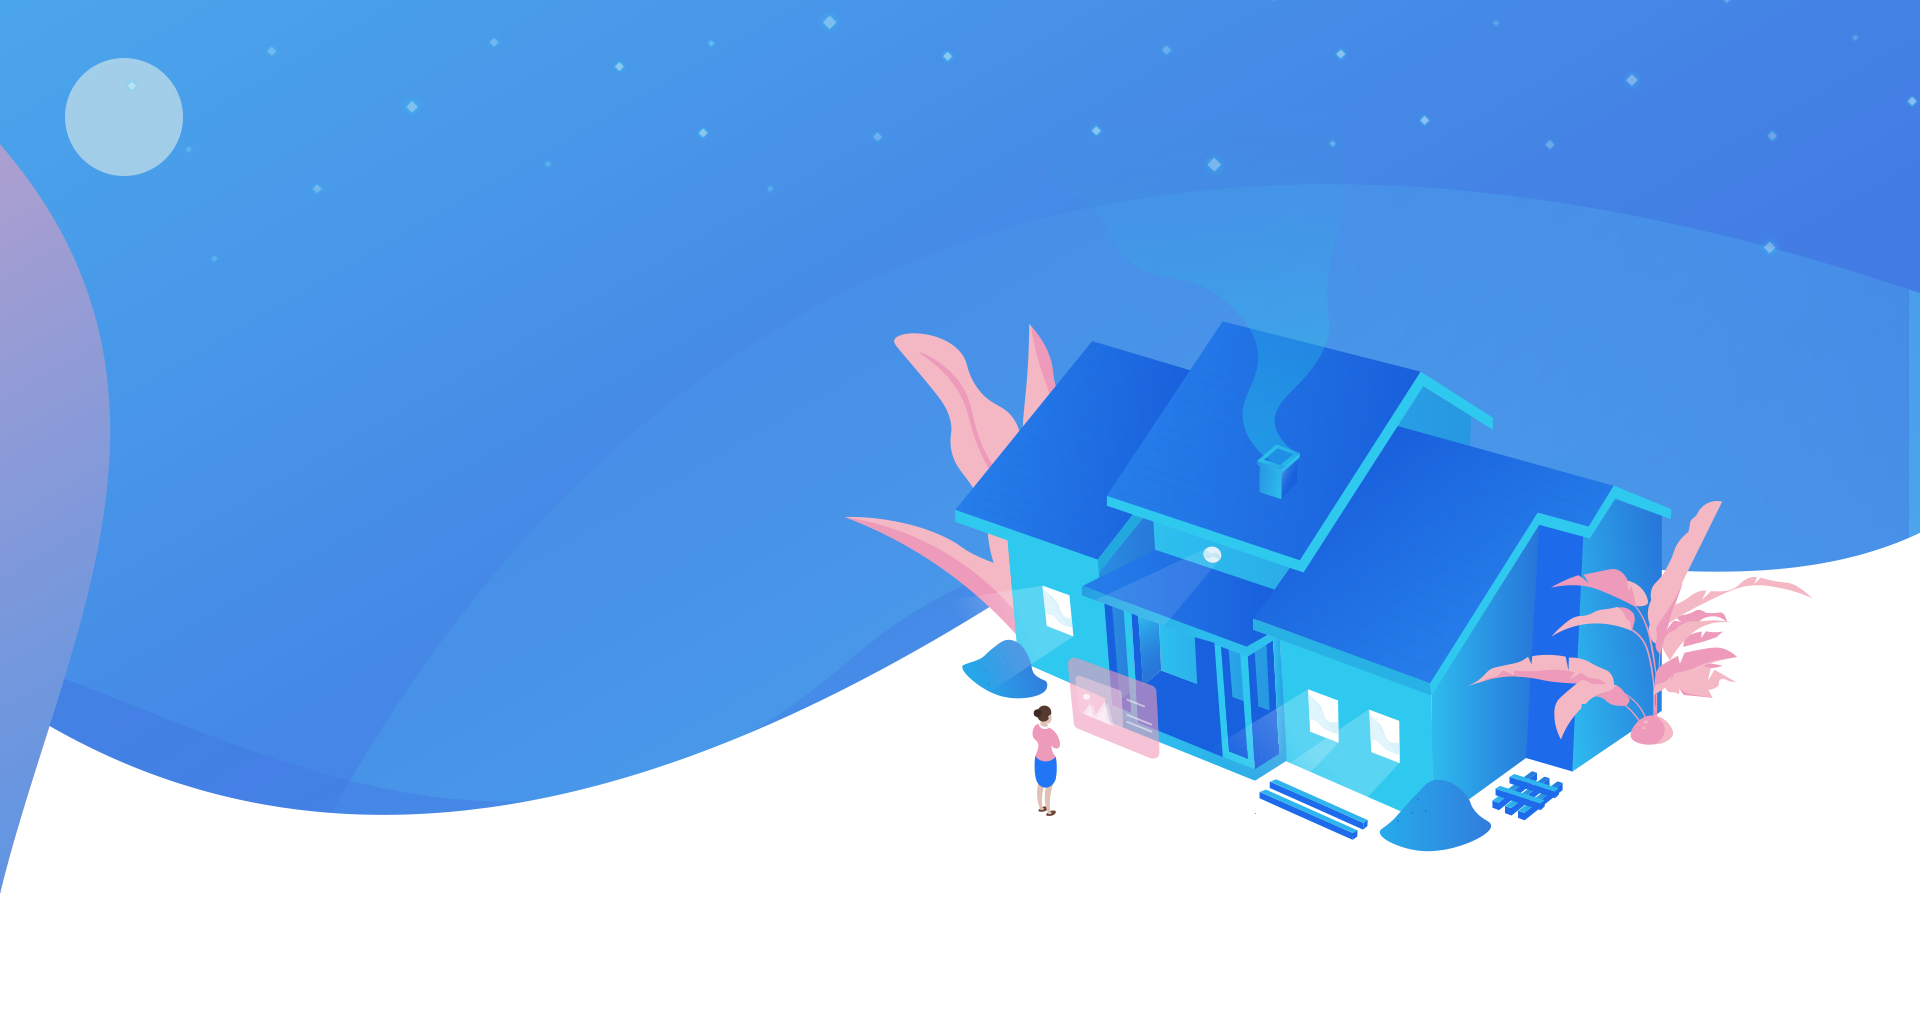
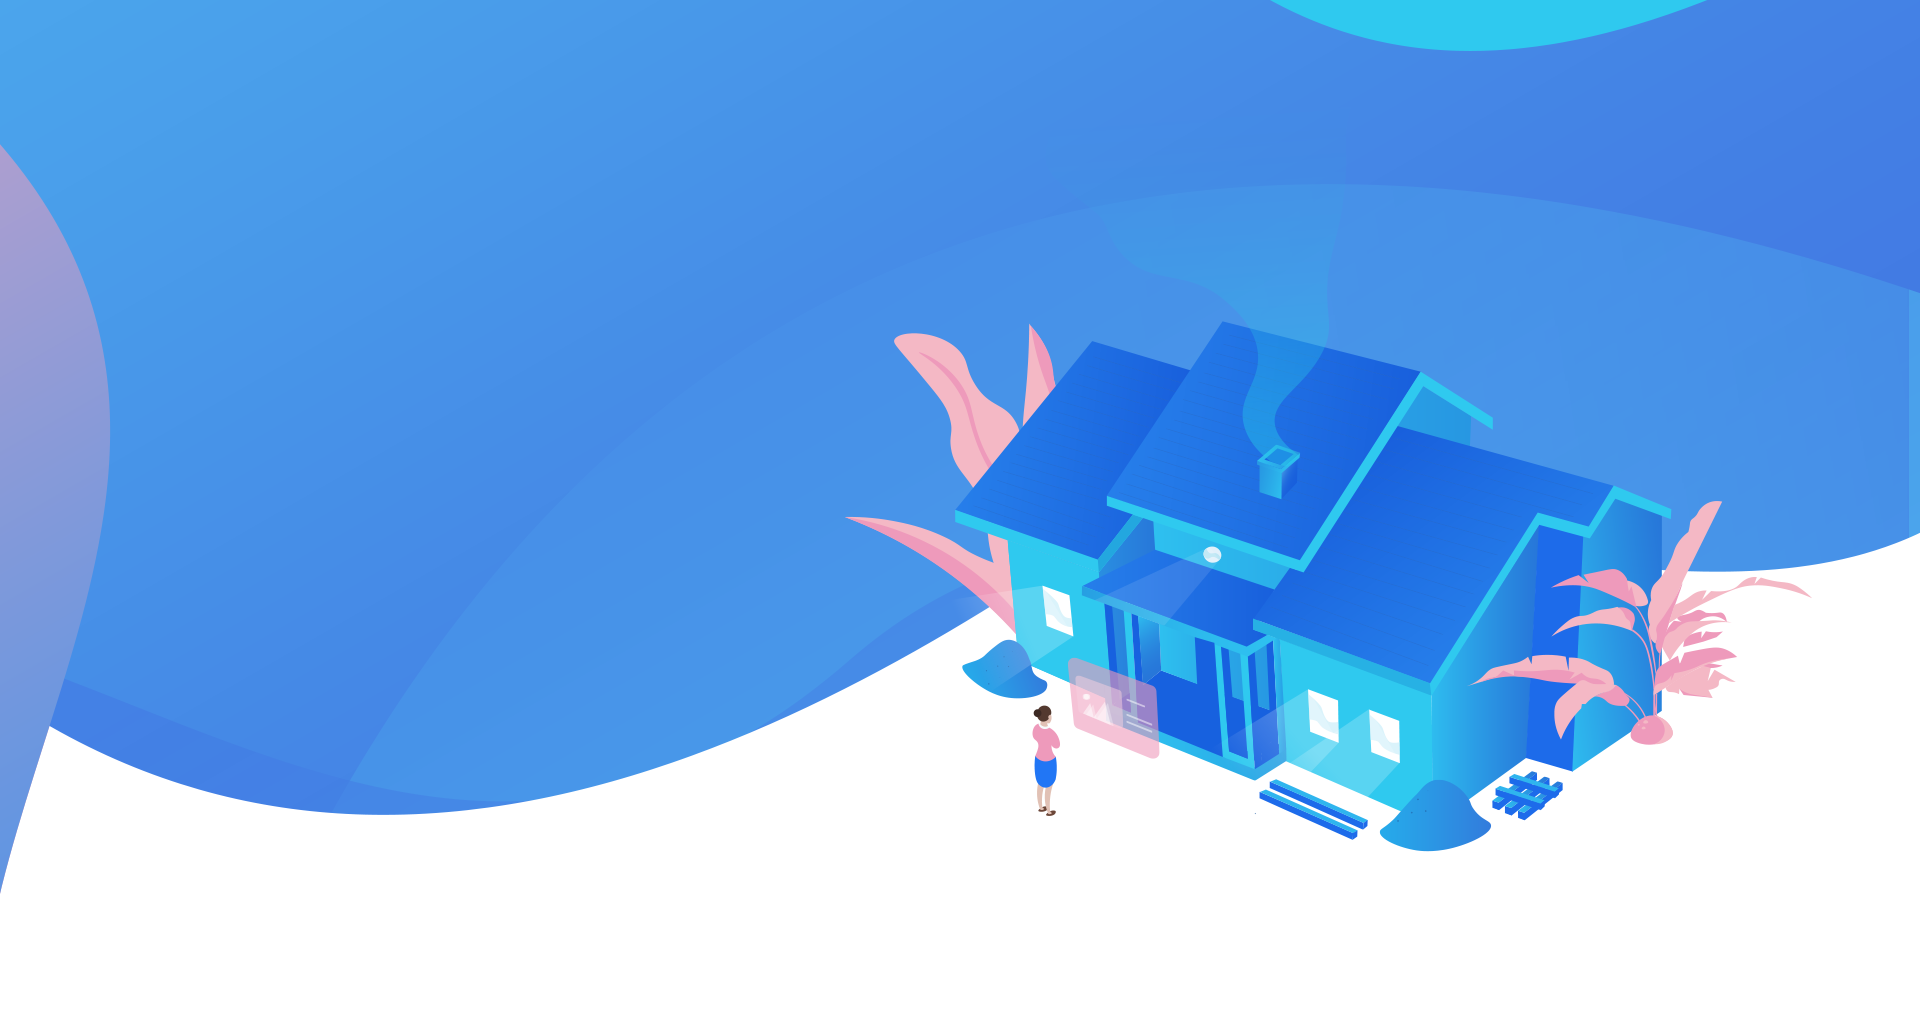
Added parallax

Changed region(s): [[0.6562, 0.0, 0.875, 0.0609], [0.0312, 0.0609, 0.0938, 0.1827]]

diff --git a/index.js b/index.js
@@ -45,4 +45,19 @@ $(document).ready(function(){
             }
         ]
     });
+    $('.offer').on('mousemove', (e) => {
+      const x = e.pageX / $(window).width();
+      const y = e.pageY / $(window).height();
+
+      $('.offer-parallax__star ').css(
+        'transform',
+        'translate(' + x * 60  + 'px, ' + y * 60 + 'px)' 
+      )
+
+      $('.offer-parallax__ellipse').css(
+        'transform',
+        'translate(-' + x * 30  + 'px, -' + y * 30 + 'px)' 
+      )
+
+    })
   });

diff --git a/styles/style.scss b/styles/style.scss
@@ -39,12 +39,25 @@ hr {
 
 
 .offer {
+    
     background-image: url(../assets/img/offer__bg.png);
-    height: 900px;
     background-position: center;
     background-repeat: no-repeat;
     background-size: cover;
     padding-top: 80px;
+    padding-bottom: 250px;
+}
+
+.offer-parallax__star {
+    position: absolute;
+    top: 0px;
+    width: 80%; 
+}
+
+.offer-parallax__ellipse {
+    position: absolute;
+    top: 30px;
+    left: 30px;
 }
 
 header {
